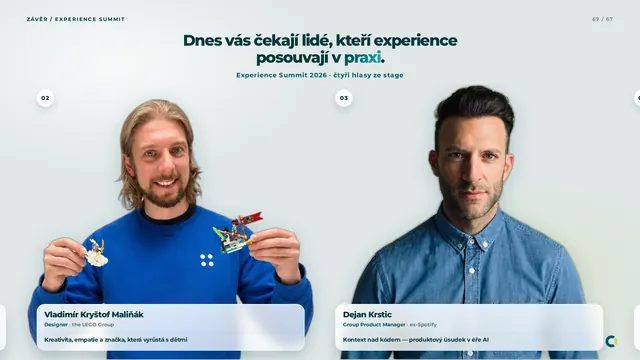
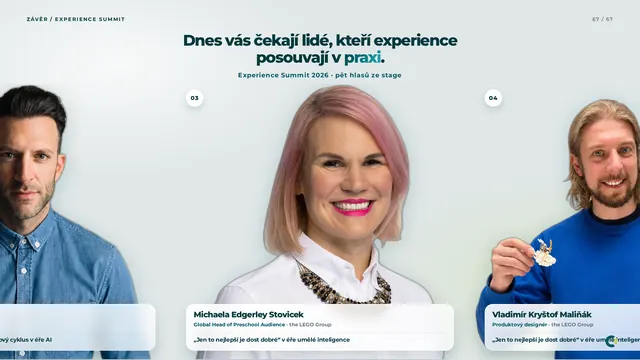
Add Nejezchleb; reorder speakers by Summit stage schedule
Five main-stage voices in program order (Jakub → Dejan → Michaela
→ Kryštof → Miloš), renumbered 01–05. Topics and times from
experiencesummit.cz; Kateřina/Zuzana stay in workshops only.

diff --git a/src/scenes/finale/SpeakersEnd.tsx b/src/scenes/finale/SpeakersEnd.tsx
@@ -6,46 +6,60 @@ import { asset } from "../../engine/assets";
 import { EASE } from "../../engine/motion";
 
 /**
- * Closing slide — four stage speakers as bottom-aligned cutouts with
- * overlaid name/role/topic (Musk / Altman / Schwartz treatment).
- * Photos: Experience Summit official headshots (…_78 / …_77), bg removed.
+ * Closing slide — stage speakers as bottom-aligned cutouts with overlaid copy.
+ * Order follows the Experience Summit 2026 main-stage program (excl. workshops).
+ * Photos: experiencesummit.cz official headshots, background removed.
  */
 const SPEAKERS = [
   {
-    id: "michaela",
+    id: "jakub",
     n: "01",
+    name: "Jakub Petřina",
+    role: "Head of Brand Strategy",
+    org: "PPF",
+    topic: "Od rychlých člunů po zaoceánské tankery",
+    time: "9:45–10:15",
+    photo: "speakers/jakub-cut.webp",
+  },
+  {
+    id: "dejan",
+    n: "02",
+    name: "Dejan Krstic",
+    role: "Group Product Manager",
+    org: "ex-Spotify",
+    topic: "Od softwaru ke kontextu — produktový cyklus v éře AI",
+    time: "10:15–10:45",
+    photo: "speakers/dejan-cut.webp",
+  },
+  {
+    id: "michaela",
+    n: "03",
     name: "Michaela Edgerley Stovicek",
     role: "Global Head of Preschool Audience",
     org: "the LEGO Group",
-    topic: "Design pro zákazníky, kteří nemohou říct, co chtějí",
+    topic: "„Jen to nejlepší je dost dobré“ v éře umělé inteligence",
+    time: "11:15–12:00",
     photo: "speakers/michaela-cut.webp",
   },
   {
     id: "krystof",
-    n: "02",
+    n: "04",
     name: "Vladimír Kryštof Maliňák",
-    role: "Designer",
+    role: "Produktový designér",
     org: "the LEGO Group",
-    topic: "Kreativita, empatie a značka, která vyrůstá s dětmi",
+    topic: "„Jen to nejlepší je dost dobré“ v éře umělé inteligence",
+    time: "11:15–12:00",
     photo: "speakers/krystof-cut.webp",
   },
   {
-    id: "dejan",
-    n: "03",
-    name: "Dejan Krstic",
-    role: "Group Product Manager",
-    org: "ex-Spotify",
-    topic: "Kontext nad kódem — produktový úsudek v éře AI",
-    photo: "speakers/dejan-cut.webp",
-  },
-  {
-    id: "jakub",
-    n: "04",
-    name: "Jakub Petřina",
-    role: "Head of Brand Strategy",
-    org: "PPF",
-    topic: "Značka stavěná detailem — škálovat CX napříč trhy",
-    photo: "speakers/jakub-cut.webp",
+    id: "milos",
+    n: "05",
+    name: "Miloš Nejezchleb",
+    role: "Chief People Care & MKT Officer",
+    org: "Home Credit CZ/SK",
+    topic: "Anatomie úspěšného týmu — vztahy a kultura řídí výsledky",
+    time: "12:00–12:30",
+    photo: "speakers/milos-cut.webp",
   },
 ] as const;
 
@@ -53,7 +67,7 @@ const SPEAKERS = [
 const CARD_W = 860;
 const GAP = 36;
 const STRIDE = CARD_W + GAP;
-const LOOP_DURATION = 42;
+const LOOP_DURATION = 48; // slightly slower with 5 speakers
 
 export function SpeakersEnd({ reduced }: SceneProps) {
   const root = useRef<HTMLDivElement>(null);
@@ -117,7 +131,9 @@ export function SpeakersEnd({ reduced }: SceneProps) {
         <br />
         posouvají <em className="sp-mark">v praxi</em>.
       </h2>
-      <p data-sp-sub className="sp-sub">Experience Summit 2026 · čtyři hlasy ze stage</p>
+      <p data-sp-sub className="sp-sub">
+        Experience Summit 2026 · pět hlasů ze stage
+      </p>
 
       <div className="sp-rail">
         <div data-sp-track className="sp-track">
